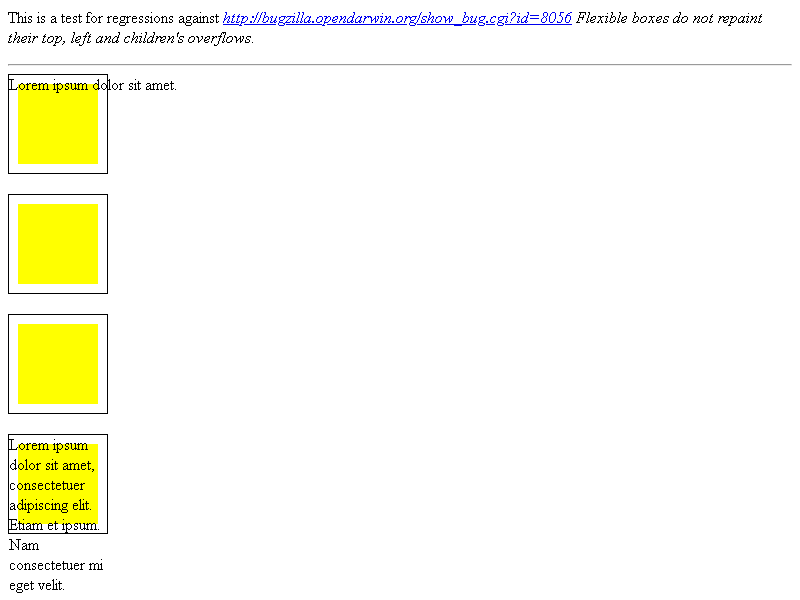
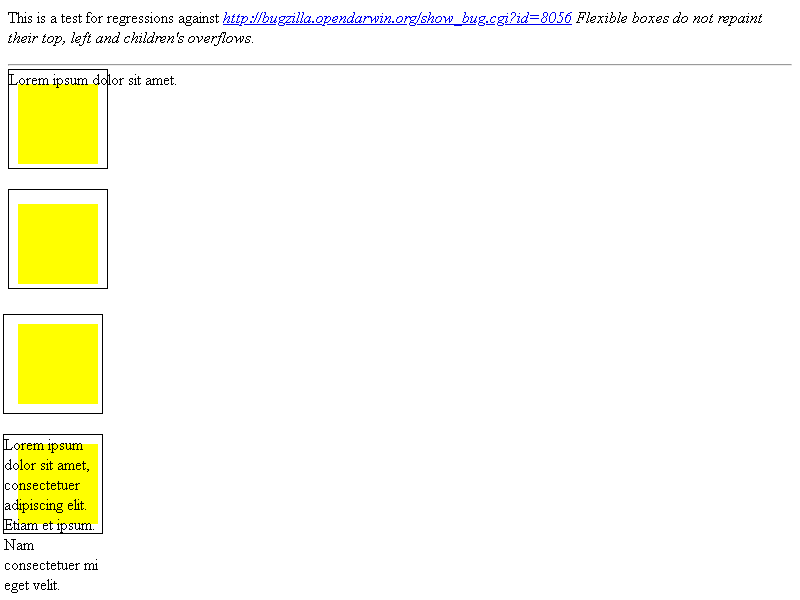
[css-flex] Remove default safe alignment for -webkit-box
-webkit-box defaulted to safe overflow for center alignment. That's
weird and differs from regular flexbox. So remove the safe overflow.

This makes Blink match Firefox.

Commit-Queue: David Grogan <dgrogan@chromium.org>
Cr-Commit-Position: refs/heads/main@{#1137476}

diff --git a/web_tests/fast/deprecated-flexbox/002-expected.html b/web_tests/fast/deprecated-flexbox/002-expected.html
@@ -1,0 +1,35 @@
+<!DOCTYPE html>
+<style>
+  div.outer {
+    position: relative;
+  }
+
+  div.crossTop {
+    height: 100px;
+    width: 300px;
+    background-color: green;
+    position: absolute;
+    top: 200px;
+    left: -50px;
+  }
+
+  div.crossBar {
+    height: 300px;
+    width: 100px;
+    background-color: green;
+    position: absolute;
+    top: 100px;
+    left: 100px;
+  }
+
+</style>
+You should see a green cross below (300 pixels wide and 300 pixels tall). This
+is a test to ensure that
+boxes don't obey the overconstraint correction (margin-right/left should not be
+corrected when a box is
+overconstrained).
+
+<div class="outer">
+  <div class="crossTop"></div>
+  <div class="crossBar"></div>
+</div>

diff --git a/web_tests/fast/deprecated-flexbox/003-expected.html b/web_tests/fast/deprecated-flexbox/003-expected.html
@@ -1,0 +1,34 @@
+<!DOCTYPE html>
+<style>
+  div.outer {
+    position: relative;
+  }
+
+  div.crossTop {
+    height: 100px;
+    width: 300px;
+    background-color: green;
+    position: absolute;
+    top: 200px;
+  }
+
+  div.crossBar {
+    height: 300px;
+    width: 100px;
+    background-color: green;
+    position: absolute;
+    top: 50px;
+    left: 100px;
+  }
+
+</style>
+You should see a green cross below (300 pixels wide and 300 pixels tall). This
+is a test to ensure that
+boxes don't obey the overconstraint correction (margin-top/bottom should not
+be corrected when a box is
+overconstrained).
+
+<div class="outer">
+  <div class="crossTop"></div>
+  <div class="crossBar"></div>
+</div>

diff --git a/web_tests/fast/deprecated-flexbox/002.html b/web_tests/fast/deprecated-flexbox/002.html
@@ -1,5 +1,7 @@
+<!DOCTYPE html>
 <html>
 <head>
+<link rel="match" href="002-expected.html">
 <style>
 div.crossTop {
   height: 300px;

diff --git a/web_tests/fast/deprecated-flexbox/003.html b/web_tests/fast/deprecated-flexbox/003.html
@@ -1,5 +1,7 @@
+<!DOCTYPE html>
 <html>
 <head>
+<link rel="match" href="003-expected.html">
 <style>
 div.crossTop {
   height: 100px;

diff --git a/renderer/core/layout/flexible_box_algorithm.cc b/renderer/core/layout/flexible_box_algorithm.cc
@@ -335,7 +335,11 @@ LayoutUnit FlexItem::AlignmentOffset(LayoutUnit available_free_space,
       return available_free_space;
     case ItemPosition::kCenter: {
       const LayoutUnit result = (available_free_space / 2);
-      return is_deprecated_webkit_box ? result.ClampNegativeToZero() : result;
+      return (!RuntimeEnabledFeatures::
+                  LayoutDisableWebkitBoxSafeAlignmentEnabled() &&
+              is_deprecated_webkit_box)
+                 ? result.ClampNegativeToZero()
+                 : result;
     }
     case ItemPosition::kBaseline:
     case ItemPosition::kLastBaseline:
